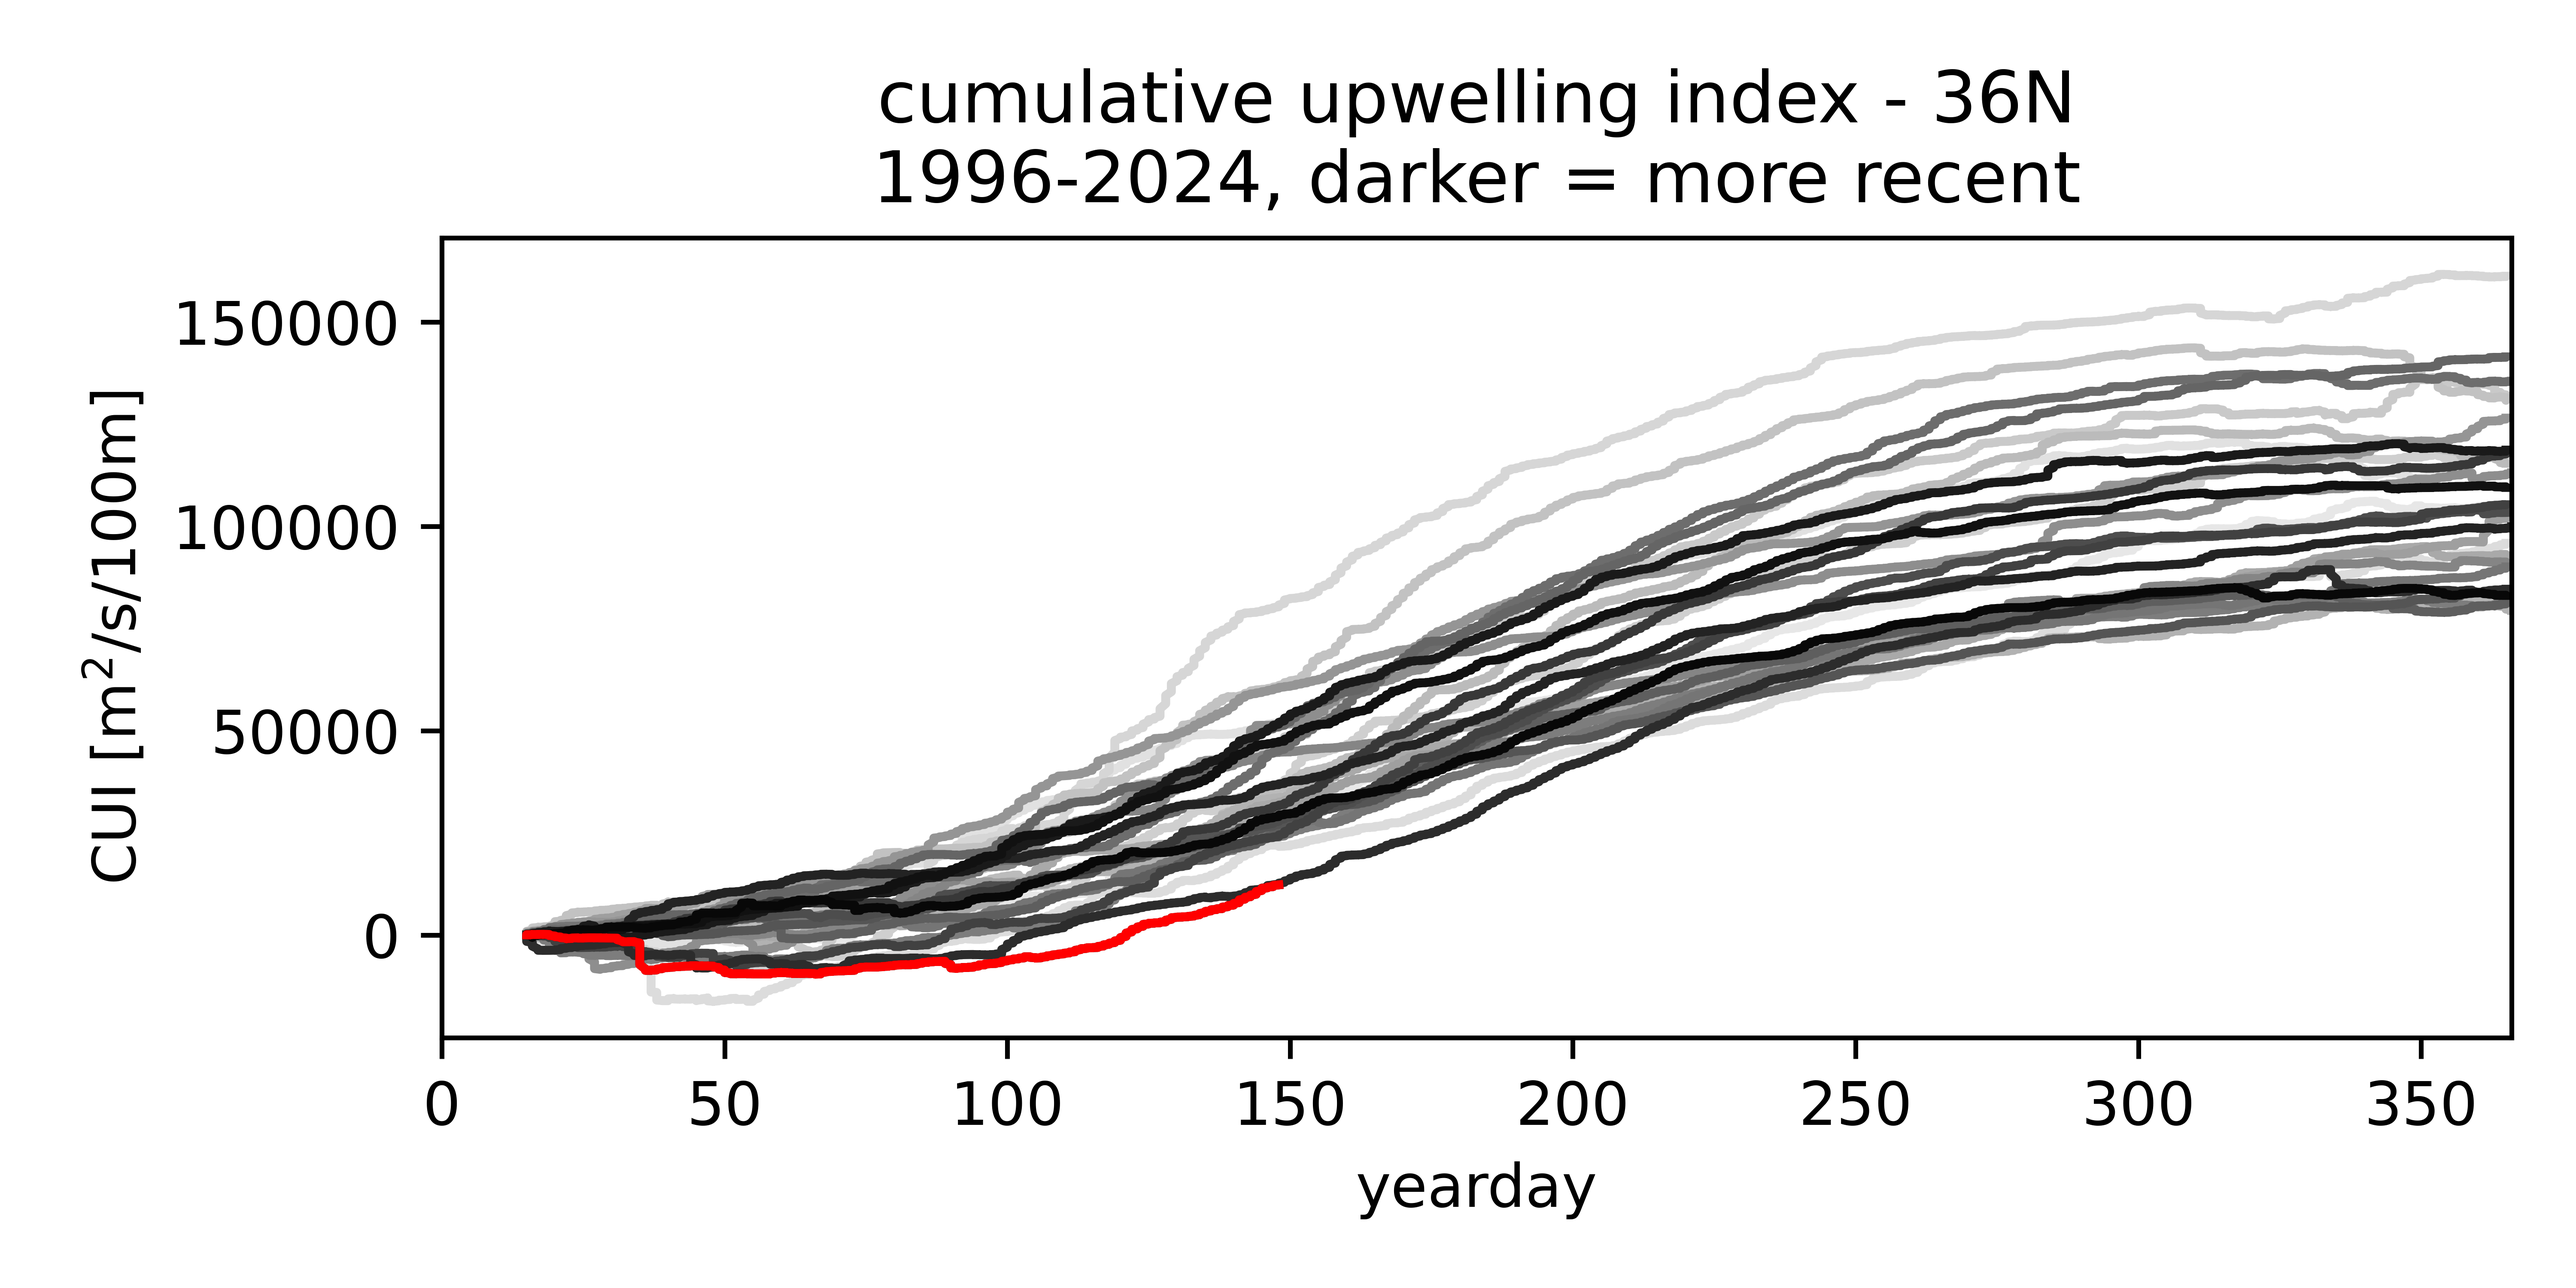
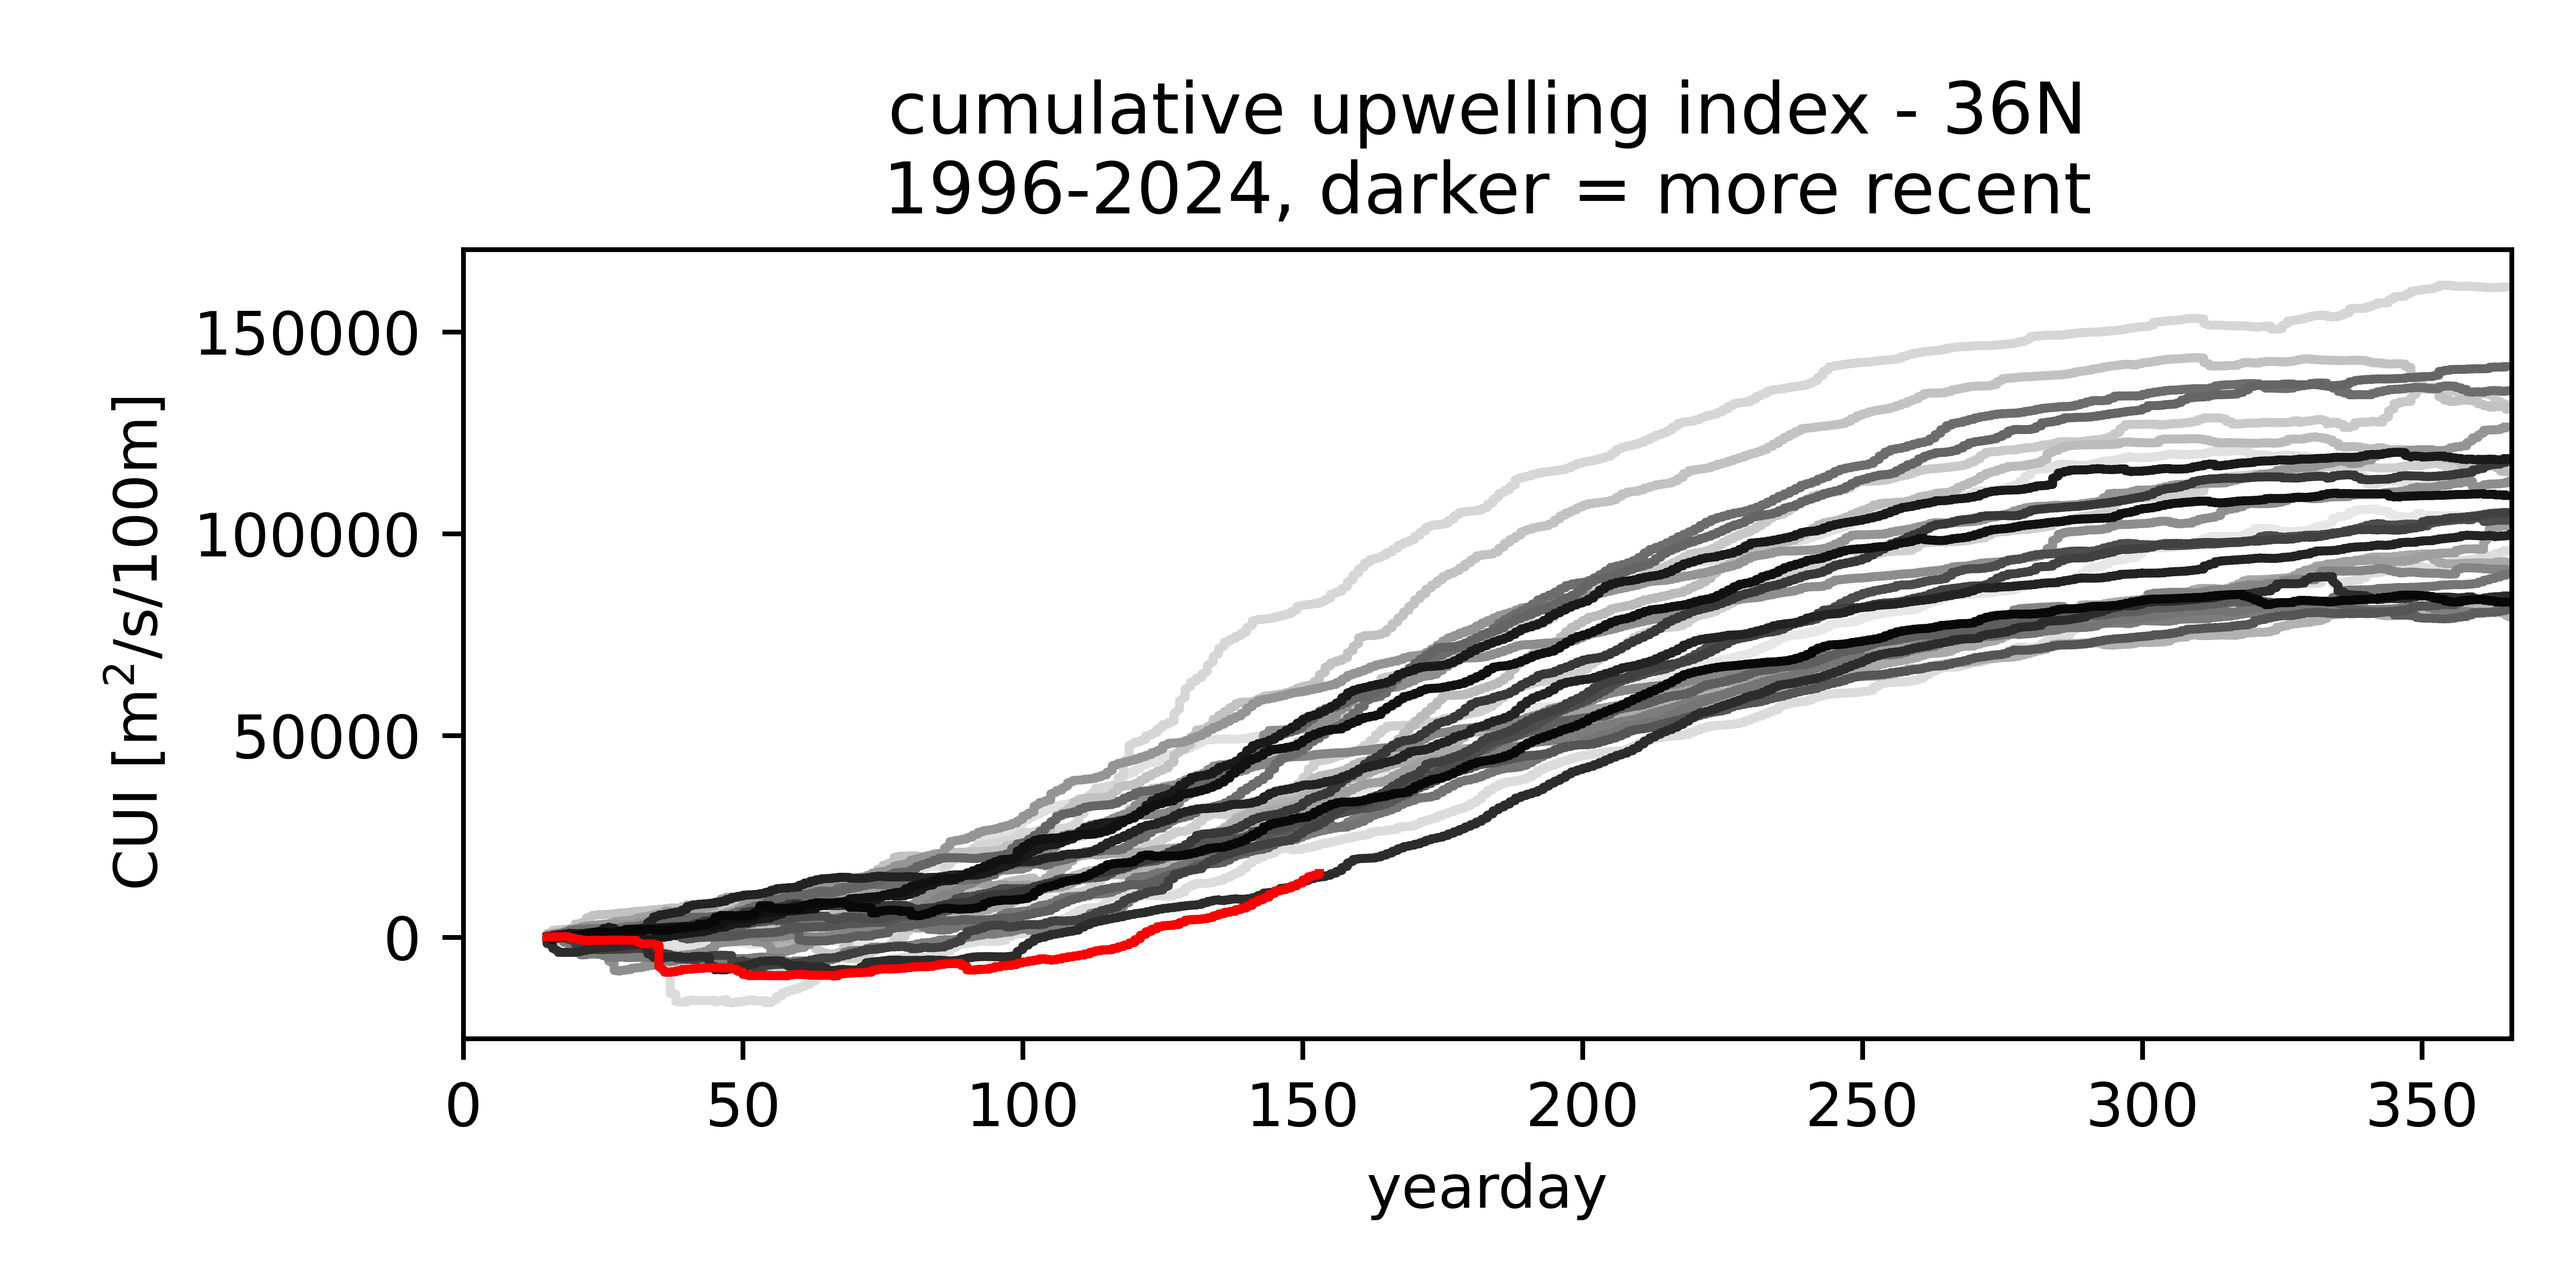
edited cui update

diff --git a/scripts/auto_update_cui/update_cui_plot.py b/scripts/auto_update_cui/update_cui_plot.py
@@ -3,15 +3,31 @@ import pandas as pd
 import numpy as np
 import matplotlib.pyplot as plt
 
+prefix = 'scripts/auto_update_cui/'
+
 # %% historical csv file
-csv_file = 'scripts/auto_update_cui/data/UpwellingIndex_36N_historical_1996-present.csv'
+csv_file = prefix+'data/UpwellingIndex_36N_historical_1996-present.csv'
+#csv_file = 'scripts/auto_update_cui/data/UpwellingIndex_36N_historical_1996-present.csv'
 dfh = pd.read_csv(csv_file, skiprows=[1], parse_dates=[0])
 
 # %% recent csv file
-recent_csv_file = 'scripts/auto_update_cui/data/upwell_122W_36N.txt'
+
+recent_csv_file = prefix+'data/upwell_122W_36N.txt'
+#recent_csv_file = 'scripts/auto_update_cui/data/upwell_122W_36N.txt'
 with open(recent_csv_file) as f:
     flines = f.readlines()
 headeri = [i for i, line in enumerate(flines) if 'VARIABLE : UPWELLING_INDEX' in line]
+
+nskip1 = headeri[0] + 9
+nlines = len(flines)
+
+dfr1 = pd.read_csv(recent_csv_file, skiprows=nskip1, delim_whitespace=True, 
+                  skipinitialspace=True, names=['date', 'time', '/', 'count', 'upwelling_index'],
+                  parse_dates=[[0,1]], date_parser=lambda x: pd.to_datetime(x, utc=True),
+                  skipfooter = nlines-headeri[-1])
+
+dfr1 = dfr1.rename(columns={'date_time':'time'})
+dfr1 = dfr1.drop(columns = ['/', 'count'])
 
 nskip = headeri[-1] + 8
 dfr = pd.read_csv(recent_csv_file, skiprows=nskip, delim_whitespace=True, 
@@ -20,6 +36,10 @@ dfr = pd.read_csv(recent_csv_file, skiprows=nskip, delim_whitespace=True,
 
 dfr = dfr.rename(columns={'date_time':'time'})
 dfr = dfr.drop(columns = ['/', 'count'])
+
+tdiff = (dfr1['time'].values[0] - dfh['time'].values[-1])/np.timedelta64(1, 'D')
+if tdiff > 0:
+    dfr = pd.concat([dfr1, dfr], ignore_index=True)
 
 # %% Concatenate historical and recent
 
@@ -65,4 +85,4 @@ plt.ylabel('CUI [m$^2$/s/100m]')
 plt.title('cumulative upwelling index - 36N\n'+
             str(allyears[0])+'-'+str(allyears[-1])+', darker = more recent')
 plt.tight_layout()
-plt.savefig('scripts/auto_update_cui/figures/cui_36N_updated.png', dpi=1000)
+plt.savefig(prefix+'figures/cui_36N_updated.png', dpi=1000)

diff --git a/scripts/auto_update_cui/retrieve_data.py b/scripts/auto_update_cui/retrieve_data.py
@@ -6,7 +6,7 @@ url = "https://oceanwatch.pfeg.noaa.gov/products/current_gifs/upwell_122W_36N.tx
 file_path = 'scripts/auto_update_cui/data/upwell_122W_36N.txt'
 urllib.request.urlretrieve(url, file_path)
 
-# historical csv from ERDDAP
-hist_url = 'https://coastwatch.pfeg.noaa.gov/erddap/tabledap/erdUI366hr.csv?time%2Cupwelling_index%2Cstation_id%2Clatitude%2Clongitude&time%3E=1996-01-01T00%3A00%3A00Z'
-hist_file_path = 'scripts/auto_update_cui/data/UpwellingIndex_36N_historical_1996-present.csv'
-urllib.request.urlretrieve(hist_url, hist_file_path)
+# # historical csv from ERDDAP
+# hist_url = 'https://coastwatch.pfeg.noaa.gov/erddap/tabledap/erdUI366hr.csv?time%2Cupwelling_index%2Cstation_id%2Clatitude%2Clongitude&time%3E=1996-01-01T00%3A00%3A00Z'
+# hist_file_path = 'scripts/auto_update_cui/data/UpwellingIndex_36N_historical_1996-present.csv'
+# urllib.request.urlretrieve(hist_url, hist_file_path)
